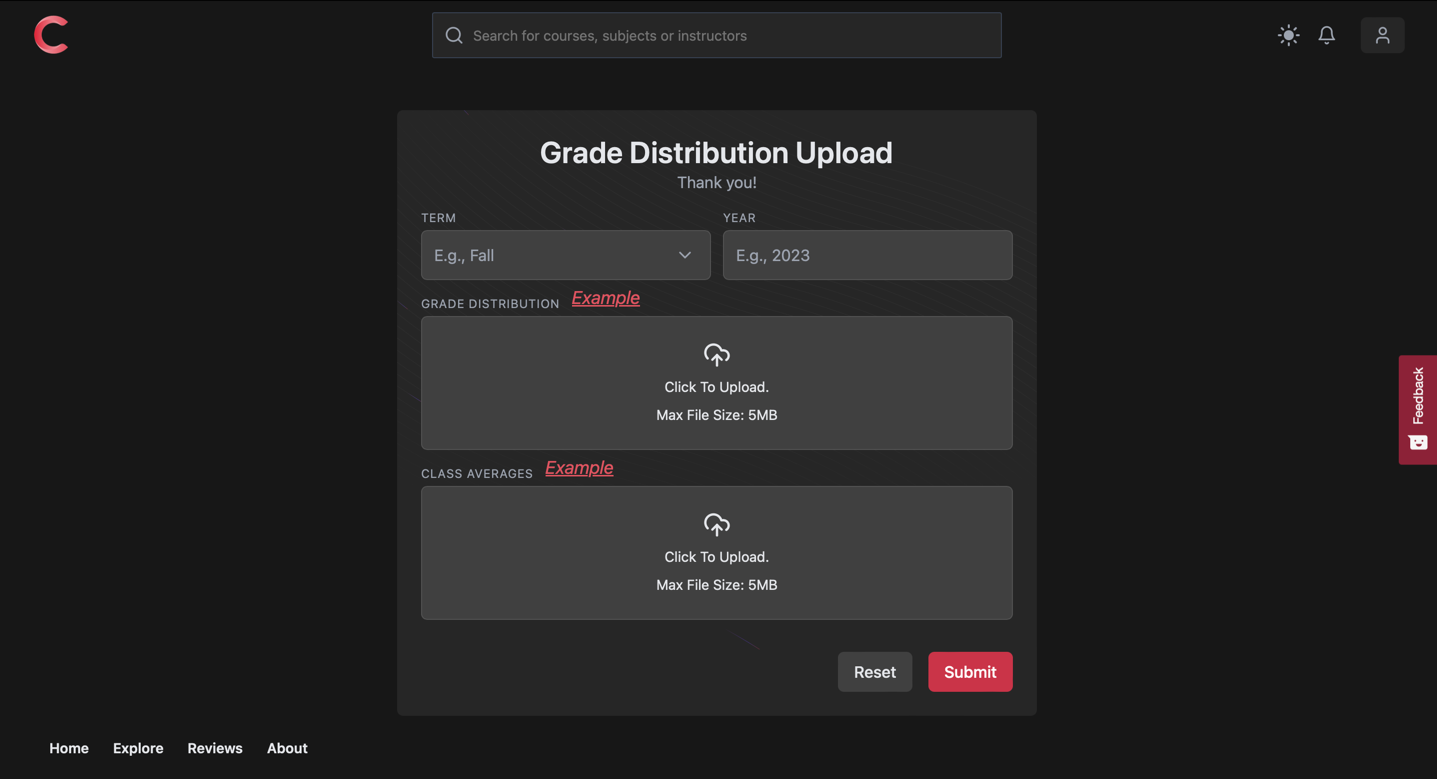
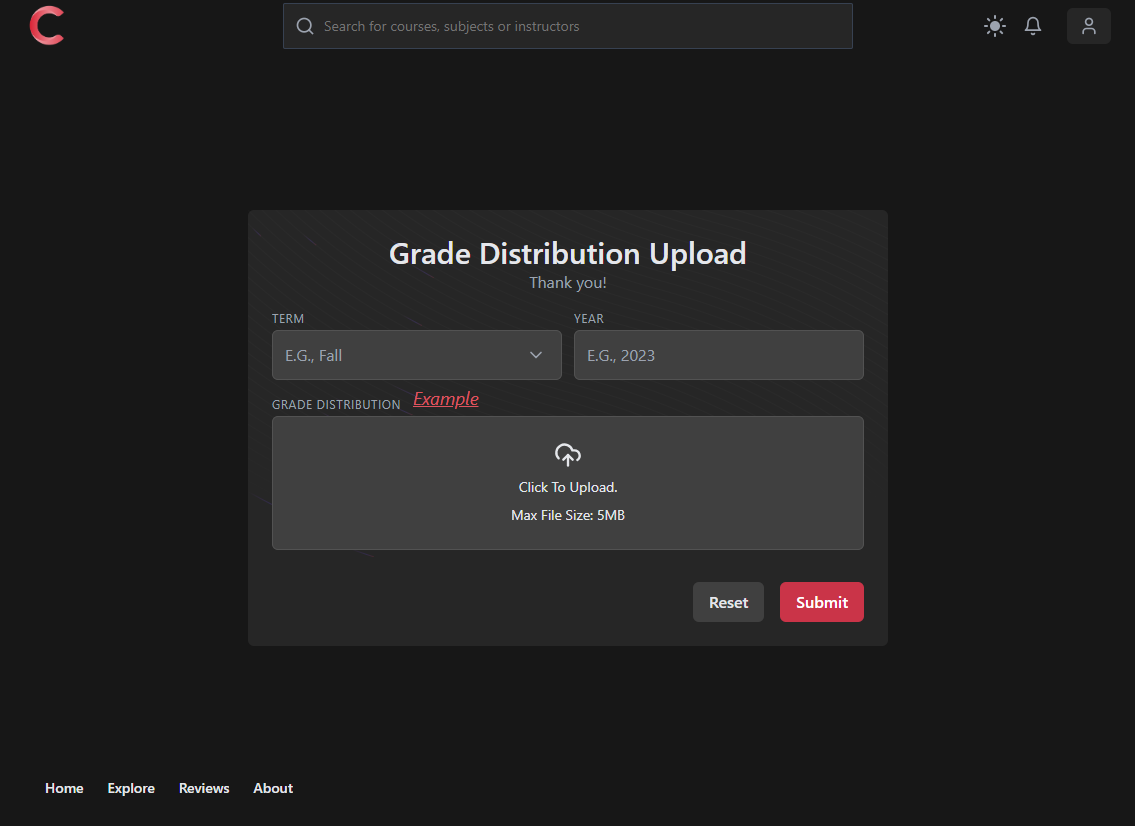
bug fix: reset the term selection after submission

diff --git a/ui/src/lib/components/grades/UploadForm.svelte b/ui/src/lib/components/grades/UploadForm.svelte
@@ -21,6 +21,8 @@
         gradeDistribution: null,
     };
 
+    let reset: boolean = false;
+
     let gradeDistributionExample = {
         title: 'Getting your Grade Distribution',
        content: `
@@ -78,6 +80,8 @@
             });
 
             actions.resetForm();
+            reset = true;
+            setTimeout(() => reset = false, 100);
         } catch (error) {
             toast.error(error.message);
         } finally {
@@ -103,6 +107,7 @@
                     <FieldLabel For='term'>Term</FieldLabel>
                     <AutocompleteInput
                             {setFieldValue}
+                            {reset}
                             value={props.values.term}
                             options={['Fall', 'Winter', 'Spring', 'Summer', 'Fall/Winter']}
                             name='term'
